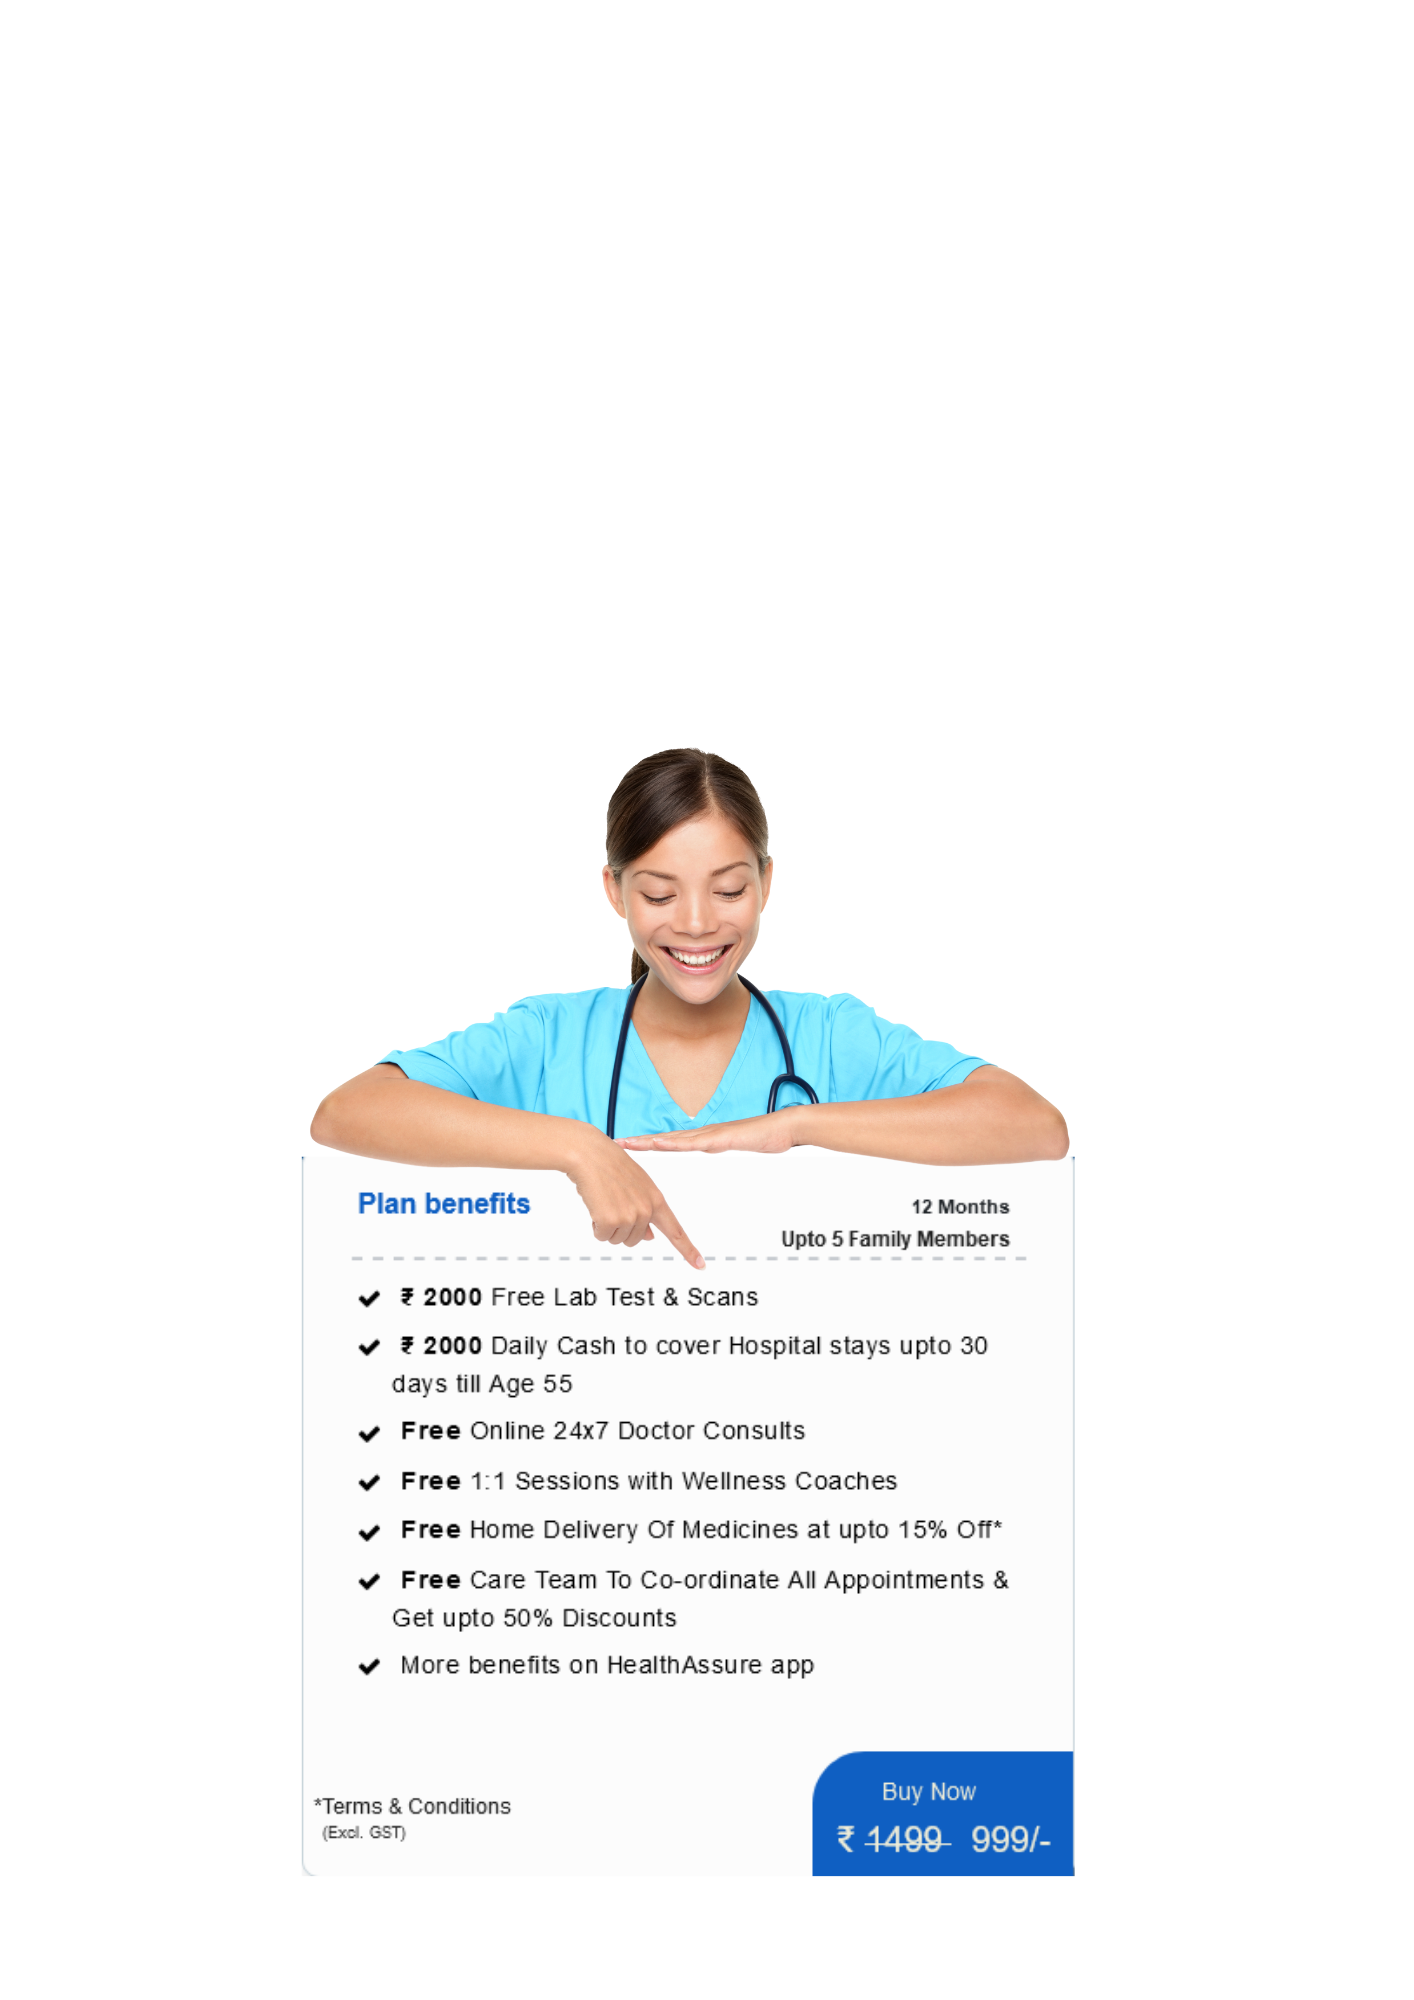
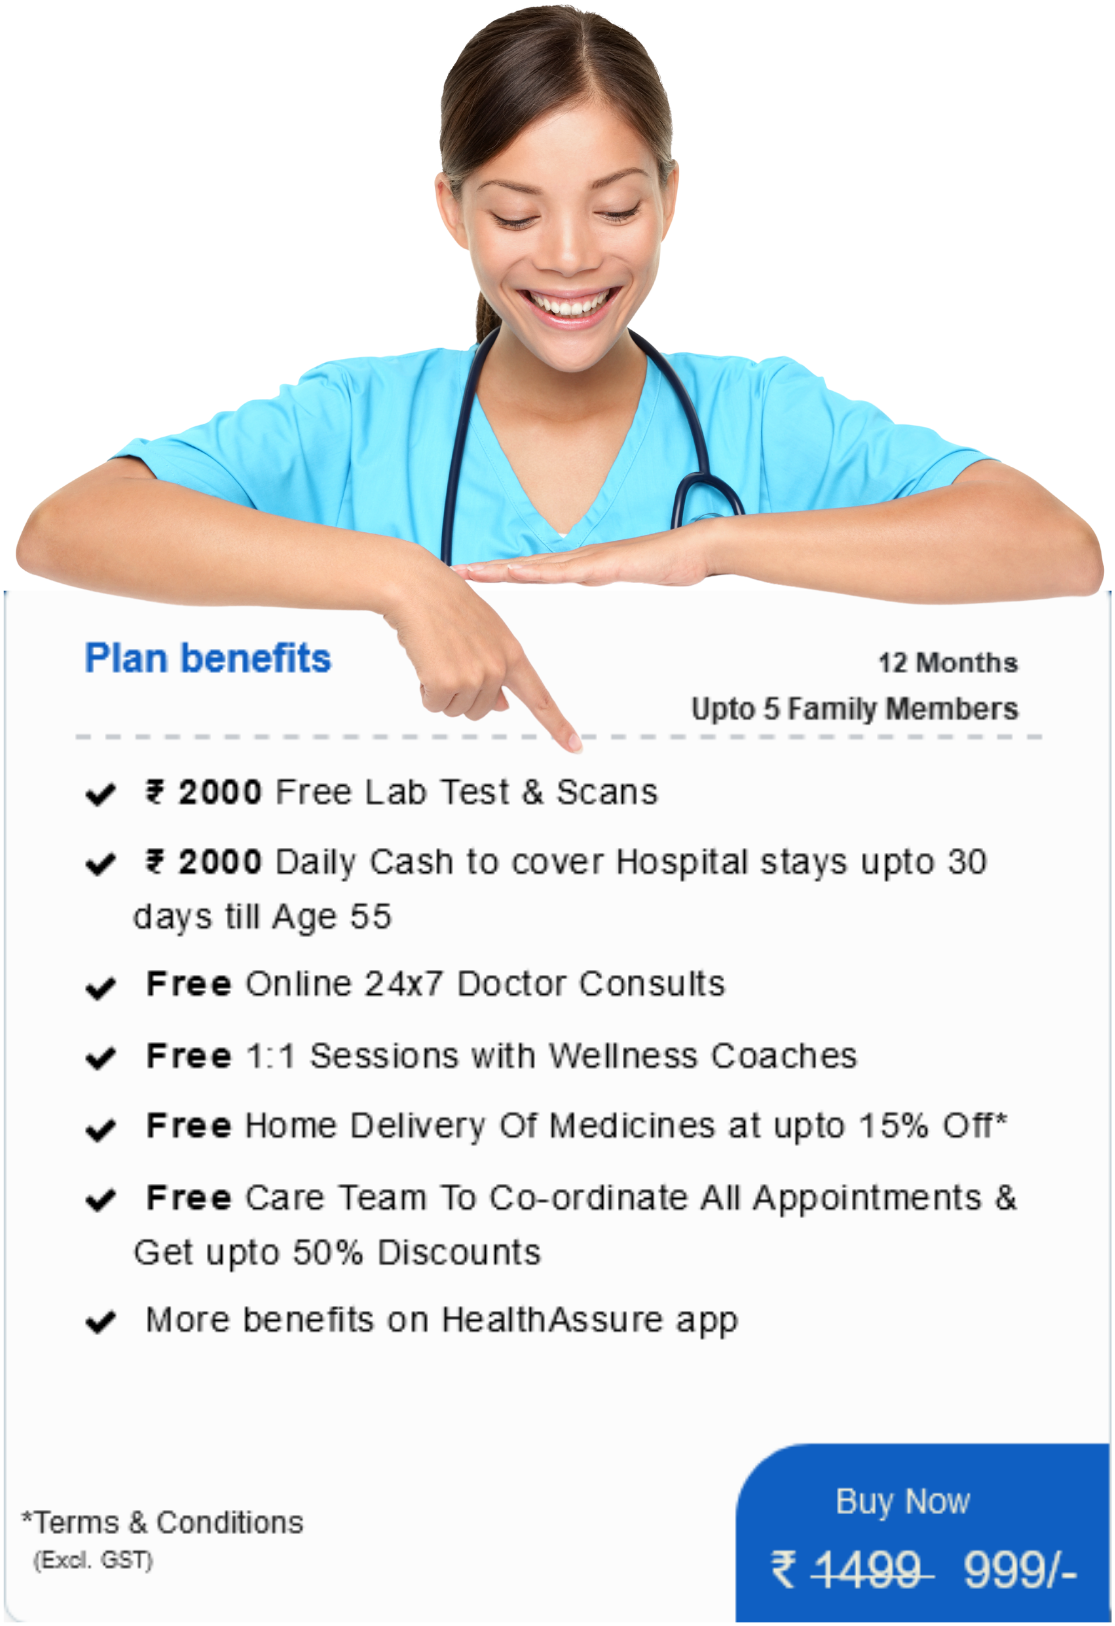
sdfe

diff --git a/plans/healthians.html b/plans/healthians.html
@@ -180,7 +180,7 @@ selector { property:value; }
                     <a href="https://healthassure.in/" class="float-right px-2 "><img src="images/sodexo-white.png"> </a>
                 </div>
               </div>
-        <div class="row mt-8">
+        <div class="row mt-4">
          <div class="col-12 col-md-6 col-sm-12 col-lg-5 col-xl-5 mb-2">
     <h2 class="pl-2 startassu" style="padding-bottom:0px;"> <span style="color:#0f5fc2; font-size:22px;"> India's First Cashless OPD Health Plan </span> </h2>
      <h2 class="pl-2 startassu pb-5" style="margin-top:-20px;"> <span style="color:##0f5fc2; font-size:23px;">Family Plan Rs. <del class="text-danger">&#8377; 70000/- </del> &nbsp; &#8377; 999/- </span> </h2>
@@ -241,10 +241,11 @@ selector { property:value; }
     <img src="images/stamp.png" class="img-fluid">
     </div> 
 
-    <div class="col-md-12 col-sm-12 col-lg-5  col-xl-5 col-xxl-5  mt-5">
+    <div class="col-md-12 col-sm-12 col-lg-5  col-xl-5 col-xxl-5">
+        <img src="images/plan-benefits.png" class="img-fluid">
    
    <!--<h2 class="head1 pb-4 text-white">FitAssure  Plan</h2>-->
-    <div class="sodexo-plan py-4">
+    <!-- <div class="sodexo-plan py-4">
         <div class="row plan px-4">
       <div class="col-md-6 pt-2 col-5">
                 <p style="font-size:16px; padding-left:10px;color:#0f5fc2;"><b>  Plan benefits </b> </p>
@@ -272,9 +273,11 @@ selector { property:value; }
          <a href="javascript:OpenBuyPlanPopup('Startassure Sodexo','SODFREE01','')"     class="buybtn float-end">  <span style="font-size:14px;text-align:left; padding-right:16px;"> Buy Now </span><br/>  <span style="font-size:20px; font-weight:500;"> &#8377; <del> 1499 </del> &nbsp;  999/-</span>  </a> 
     </div>
     </div>
-  </div>
+  </div> -->
  <!--   <img src="images/bnr1.png" class="img-fluid"style="margin-top:-1020px;position:relative;">
- --></div>
+ -->
+     
+ </div>
 </div>
    </div>
     </section>
